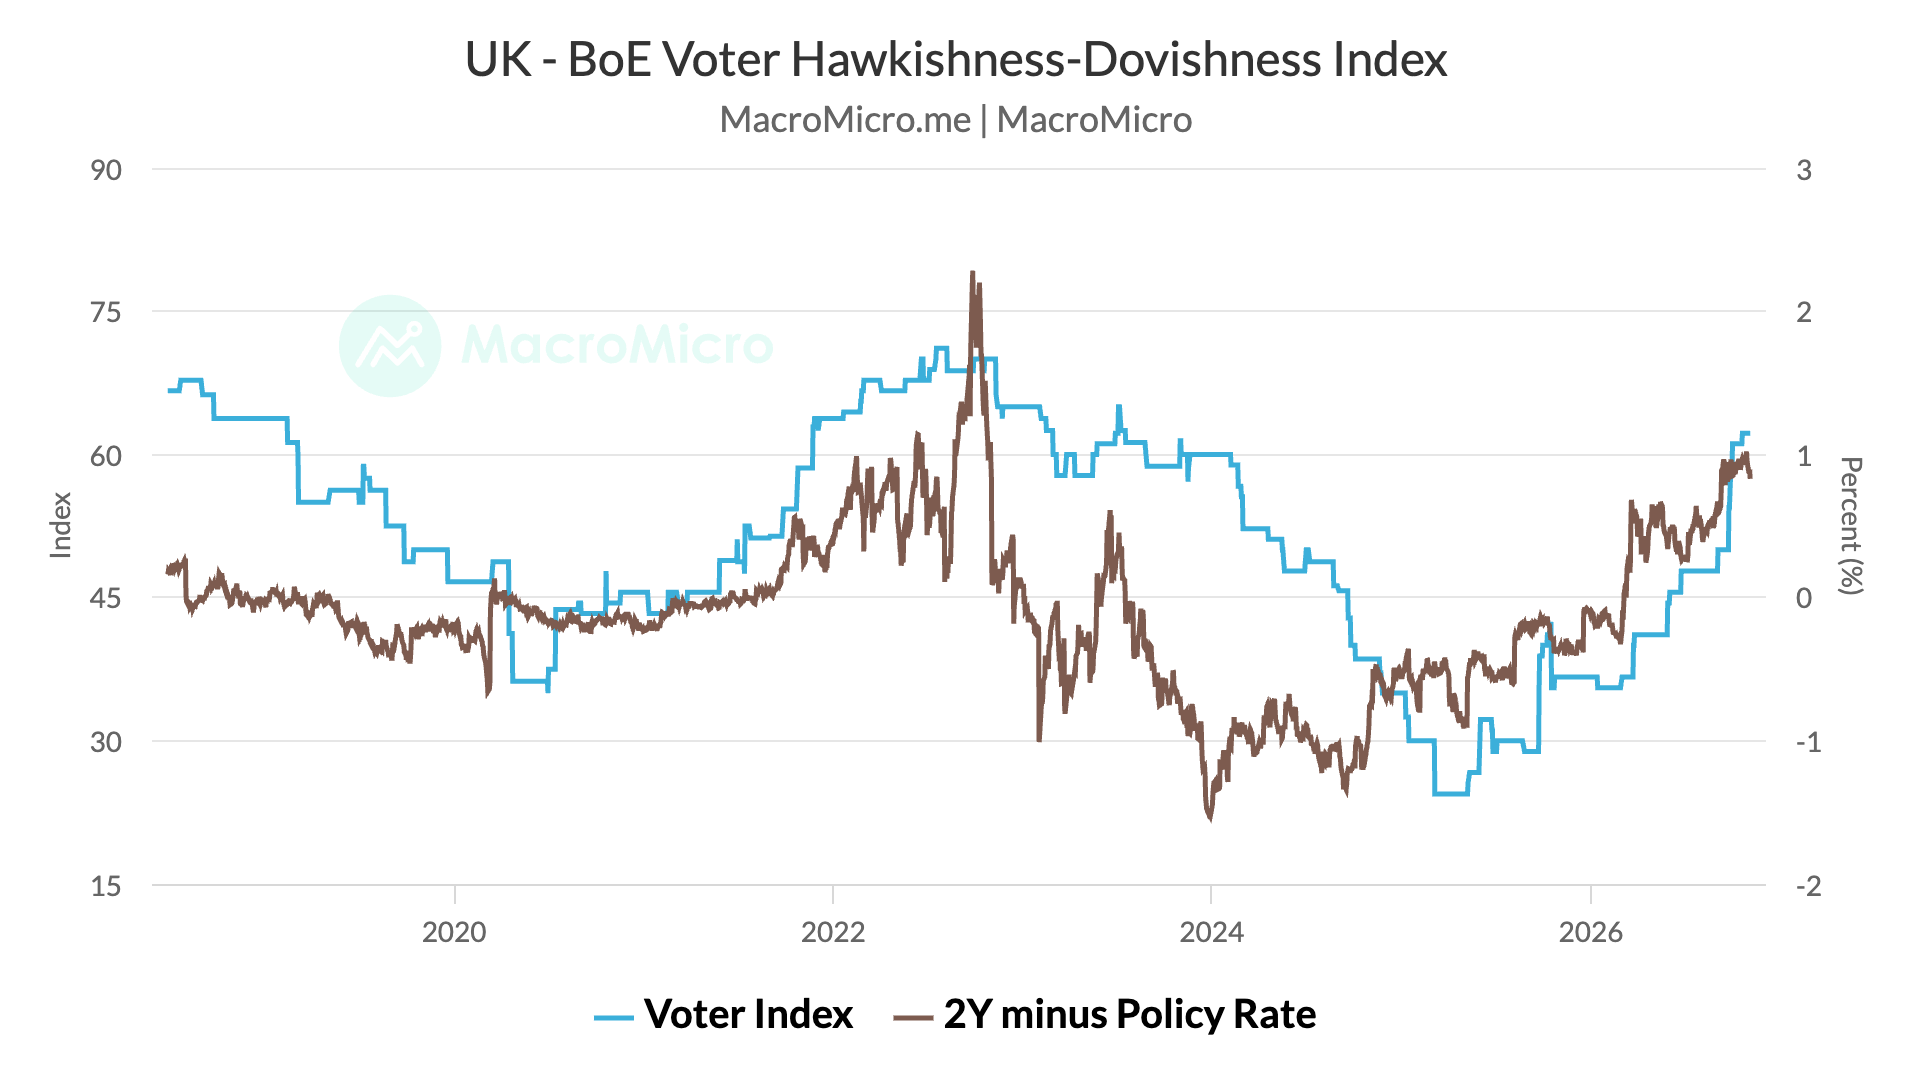
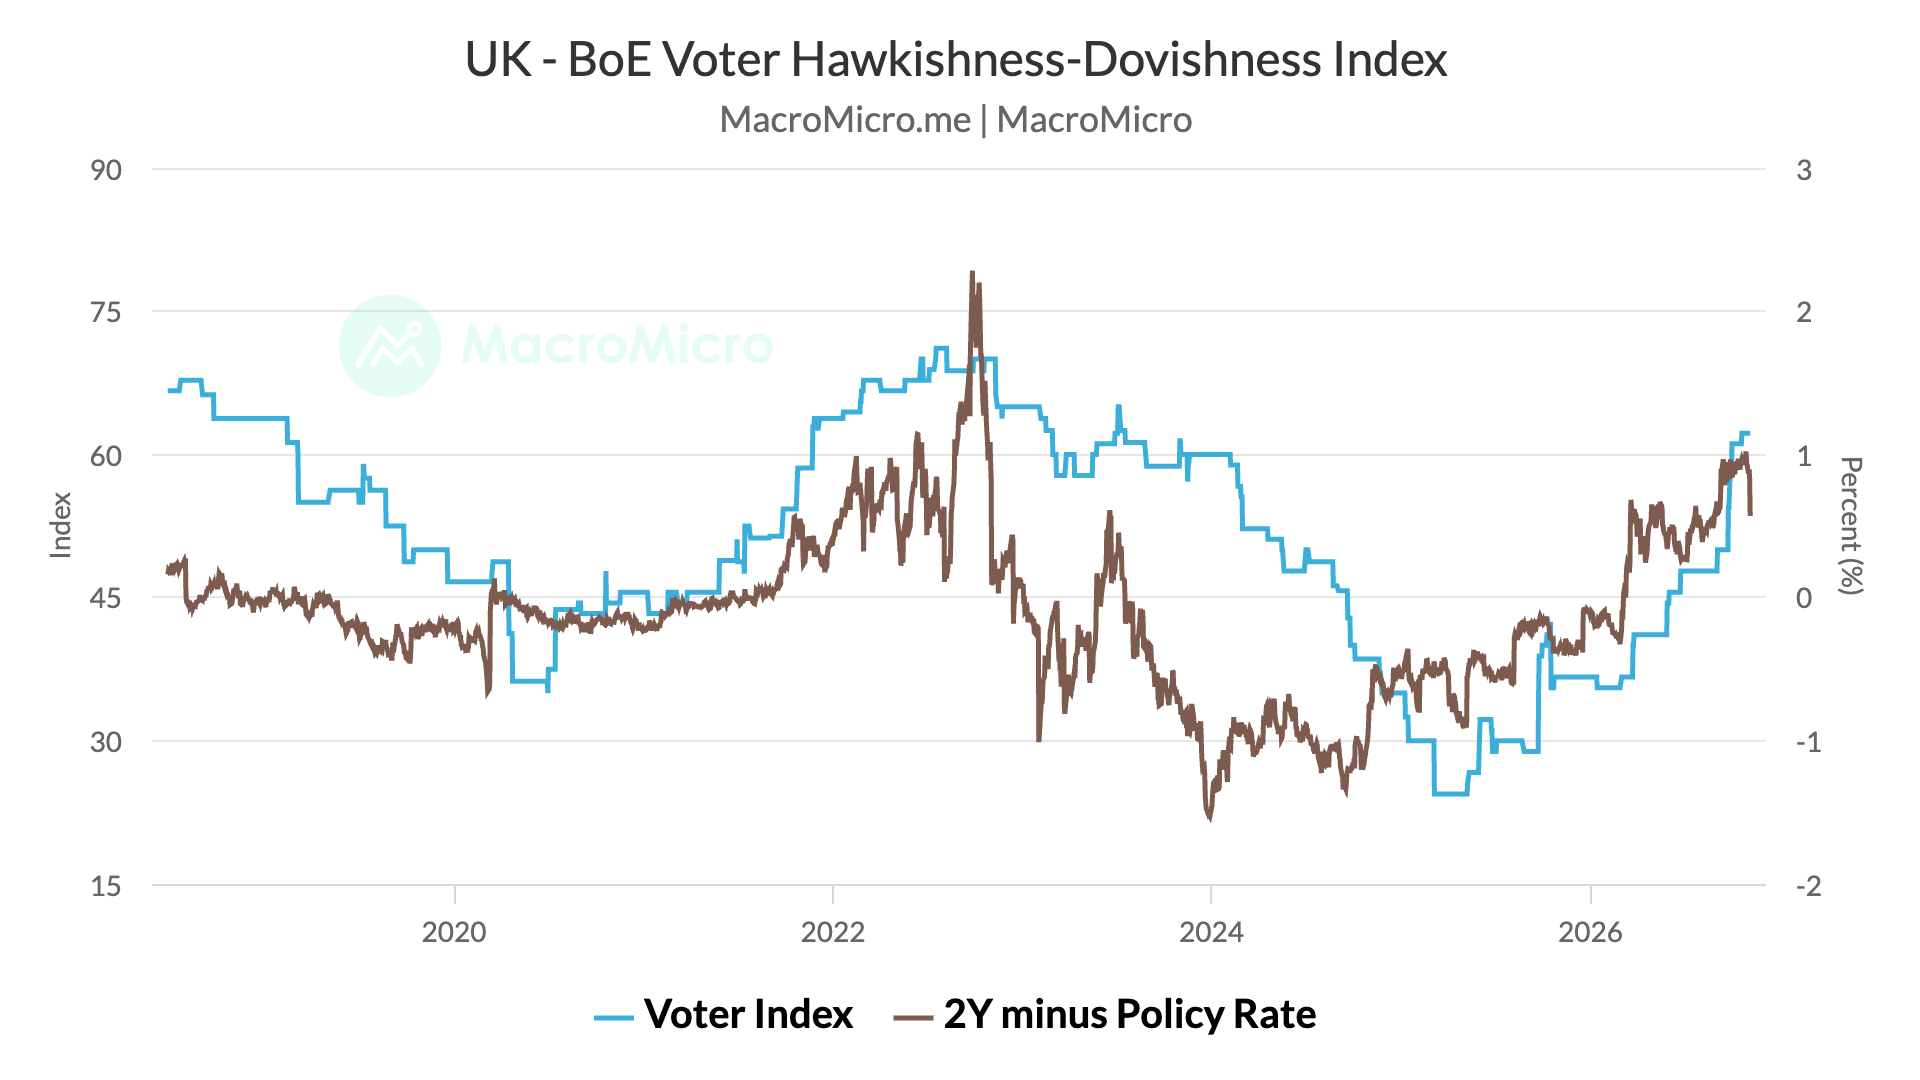
presentation mats

diff --git a/presentation_charts/make_charts.py b/presentation_charts/make_charts.py
@@ -1,0 +1,362 @@
+"""Presentation charts for the speech hawk/dove index, one folder per bank (MacroMicro house style).
+
+    fed_speech_index/.venv/bin/python presentation_charts/make_charts.py
+
+Reads only the repo's existing outputs/data; writes PNGs to presentation_charts/{fed,boe,boj}/:
+  1_scored_example.png   how one speech becomes a score (latest scored speech)
+  2_index_and_decisions.png  index with tightening/easing cycles shaded, policy rate below
+  3_member_heatmap.png   every member's score over time
+  4_stance_groups.png    how many voters lean to ease / hold / lean to tighten
+  5_disagreement.png     index with disagreement below
+  6_coverage.png         scored speeches per month
+"""
+from __future__ import annotations
+
+import ast
+import bisect
+import csv
+import datetime as dt
+import json
+import sys
+import textwrap
+from collections import defaultdict
+from pathlib import Path
+
+import matplotlib
+
+matplotlib.use("Agg")
+import matplotlib.dates as mdates  # noqa: E402
+import matplotlib.image as mpimg  # noqa: E402
+import matplotlib.pyplot as plt  # noqa: E402
+import numpy as np  # noqa: E402
+from matplotlib.colors import LinearSegmentedColormap  # noqa: E402
+from matplotlib.patches import Rectangle  # noqa: E402
+
+csv.field_size_limit(sys.maxsize)
+HERE = Path(__file__).resolve().parent
+ROOT = HERE.parent
+sys.path.insert(0, str(ROOT / "fed_speech_index"))
+from rubric import LEVELS  # noqa: E402
+
+# ---- MacroMicro style -------------------------------------------------------------------------------
+BLUE, NAVY, BROWN = "#3bafda", "#3b3f4f", "#7d5b4f"
+HAWK, DOVE, HOLD = "#e9573f", "#3bafda", "#c9c9c9"     # tighten / ease / hold
+TEXT, MUTED, GRID, BASE = "#333333", "#666666", "#e6e6e6", "#d8d8d8"
+TIGHT_BAND, EASE_BAND = "#fbe3de", "#dff1f8"
+DIVERGING = LinearSegmentedColormap.from_list("dove_hawk", ["#1f7fa8", DOVE, "#ececec", HAWK, "#b8341f"])
+W, H, DPI = 9.6, 5.4, 200                                # 960x540 at 2x
+plt.rcParams.update({
+    "font.family": ["Lato", "Hiragino Sans", "Arial Unicode MS", "DejaVu Sans"],
+    "font.size": 10, "text.color": TEXT, "axes.labelcolor": MUTED, "xtick.color": MUTED, "ytick.color": MUTED,
+    "axes.edgecolor": BASE, "axes.linewidth": 0.8, "xtick.major.size": 5, "ytick.major.size": 0,
+    "axes.spines.top": False, "axes.spines.right": False, "axes.spines.left": False,
+})
+WATERMARK = mpimg.imread(HERE / "assets" / "mm-watermark.png")
+
+BANKS = {
+    "fed": dict(folder="fed_speech_index", country="US", body="FOMC", start="2008-01-01",
+                rate_label="Fed funds target, midpoint (%)", members="FOMC voters"),
+    "boe": dict(folder="boe", country="UK", body="BoE MPC", start="2018-06-28",
+                rate_label="Bank Rate (%)", members="MPC members"),
+    "boj": dict(folder="boj", country="Japan", body="BoJ Policy Board", start="2018-03-01",
+                rate_label="BoJ short-term policy rate (%)", members="Policy Board members"),
+}
+# BoJ has no rate file in the repo; same table the yield_comparison CSVs use.
+BOJ_RATE = [("2016-01-29", -0.10), ("2024-03-19", 0.10), ("2024-07-31", 0.25), ("2025-01-24", 0.50),
+            ("2025-12-19", 0.75), ("2026-06-16", 1.00), ("2026-09-18", 1.25)]
+
+
+# ---- data -------------------------------------------------------------------------------------------
+def d(s: str) -> dt.date:
+    return dt.date.fromisoformat(s[:10])
+
+
+def series(path: Path, col: str = "index") -> tuple[list[dt.date], np.ndarray]:
+    rows = list(csv.DictReader(open(path, encoding="utf-8")))
+    return [d(r["date"]) for r in rows], np.array([float(r[col]) for r in rows])
+
+
+def policy_rate(bank: str) -> list[tuple[dt.date, float]]:
+    if bank == "fed":
+        rows = csv.DictReader(open(ROOT / "fed_speech_index/data/fed_funds.csv"))
+        mid = lambda s: float(s) if s.startswith("-") else float(np.mean([float(x) for x in s.split("-")]))  # noqa: E731
+        return [(d(r["date"]), mid(r["level"])) for r in rows]
+    if bank == "boe":
+        return [(d(r["date"]), float(r["level"])) for r in csv.DictReader(open(ROOT / "boe/data/policy_rates.csv"))]
+    return [(d(a), b) for a, b in BOJ_RATE]
+
+
+def rate_at(rates, day):
+    i = bisect.bisect_right([r[0] for r in rates], day) - 1
+    return rates[i][1] if i >= 0 else np.nan
+
+
+def cycles(rates, start):
+    """Consecutive same-direction moves -> (first, last, +1/-1)."""
+    moves = [(rates[i][0], np.sign(rates[i][1] - rates[i - 1][1])) for i in range(1, len(rates))]
+    moves = [(day, s) for day, s in moves if s != 0 and day >= start]
+    out = []
+    for day, s in moves:
+        if out and out[-1][2] == s:
+            out[-1][1] = day
+        else:
+            out.append([day, day, s])
+    return out
+
+
+def scores(folder: str) -> dict:
+    out = {}
+    for line in open(ROOT / folder / "data/scores.jsonl", encoding="utf-8"):
+        r = json.loads(line)
+        out[r["id"]] = r
+    return out
+
+
+def speeches(folder: str) -> dict:
+    out = {}
+    for f in sorted((ROOT / folder / "data/speeches").glob("*.csv")):
+        for r in csv.DictReader(open(f, encoding="utf-8")):
+            r.pop("text", None)
+            out[r["id"]] = r
+    return out
+
+
+# ---- chart scaffolding ------------------------------------------------------------------------------
+def figure(title: str, rows=1, ratios=None, sharex=True, mark=(0.13, 0.62)):
+    fig, axes = plt.subplots(rows, 1, figsize=(W, H), dpi=DPI, sharex=sharex,
+                             gridspec_kw={"height_ratios": ratios} if ratios else None)
+    fig.patch.set_facecolor("white")
+    fig.text(0.5, 0.955, title, ha="center", va="center", fontsize=17, color=TEXT)
+    fig.text(0.5, 0.905, "MacroMicro.me | MacroMicro", ha="center", va="center", fontsize=12, color=MUTED)
+    fig.figimage(WATERMARK, xo=int(mark[0] * W * DPI), yo=int(mark[1] * H * DPI), zorder=0.5, alpha=1)
+    axes = np.atleast_1d(axes)
+    for ax in axes:
+        ax.set_facecolor("none")
+        ax.grid(axis="y", color=GRID, lw=0.8)
+        ax.set_axisbelow(True)
+        ax.tick_params(labelsize=9)
+    return fig, axes
+
+
+def years(ax, step=None):
+    ax.xaxis.set_major_locator(mdates.YearLocator(step or 1))
+    ax.xaxis.set_major_formatter(mdates.DateFormatter("%Y"))
+
+
+def legend(fig, handles, labels, y=0.03):
+    fig.legend(handles, labels, loc="lower center", bbox_to_anchor=(0.5, y), ncol=len(labels), frameon=False,
+               prop={"weight": "bold", "size": 11}, handlelength=1.4, columnspacing=1.6)
+
+
+def save(fig, path: Path, bottom=0.14):
+    fig.subplots_adjust(left=0.08, right=0.97, top=0.85, bottom=bottom, hspace=0.18)
+    fig.savefig(path, dpi=DPI, facecolor="white")
+    plt.close(fig)
+
+
+def shade_cycles(ax, cyc):
+    for a, b, s in cyc:
+        b = max(b, a + dt.timedelta(days=25))
+        ax.axvspan(a, b, color=TIGHT_BAND if s > 0 else EASE_BAND, lw=0, zorder=0)
+
+
+# ---- charts -----------------------------------------------------------------------------------------
+def scored_example(bank, cfg, out):
+    sc, sp = scores(cfg["folder"]), speeches(cfg["folder"])
+    good = [(sp[i]["date"], i) for i, r in sc.items() if i in sp and r.get("policy_relevant")
+            and r.get("level") not in (None, 5) and all(r.get("evidence_verified") or [False])]
+    _, sid = max(good)
+    r, s = sc[sid], sp[sid]
+    ev = r["evidence"]
+    ev = ast.literal_eval(ev) if isinstance(ev, str) else ev
+    level = int(r["level"])
+
+    fig, _ = figure(f"{cfg['country']} - How a Speech Becomes a Score", rows=1, mark=(0.64, 0.72))
+    fig.axes[0].remove()
+    head = f"{s['speaker']}  ·  {d(s['date']).strftime('%b %-d, %Y')}"
+    fig.text(0.06, 0.80, head, fontsize=13, weight="bold", color=TEXT)
+    fig.text(0.06, 0.755, textwrap.shorten(s.get("title") or "", 70, placeholder=" …"), fontsize=10.5, color=MUTED, style="italic")
+
+    # 11-step scale
+    ax = fig.add_axes([0.06, 0.60, 0.88, 0.09])
+    ax.set_xlim(-0.5, 10.5), ax.set_ylim(0, 1), ax.axis("off")
+    for k in range(11):
+        ax.add_patch(Rectangle((k - 0.46, 0.25), 0.92, 0.6, color=DIVERGING(k / 10), lw=0))
+        ax.text(k, 0.55, str(k * 10), ha="center", va="center", fontsize=9,
+                color="white" if k in (0, 1, 9, 10) else TEXT)
+    ax.add_patch(Rectangle((level - 0.5, 0.18), 1.0, 0.74, fill=False, ec=TEXT, lw=2))
+    ax.text(0, 0.0, "Emergency easing", ha="left", va="center", fontsize=8.5, color=MUTED)
+    ax.text(5, 0.0, "Hold", ha="center", va="center", fontsize=8.5, color=MUTED)
+    ax.text(10, 0.0, "Aggressive tightening", ha="right", va="center", fontsize=8.5, color=MUTED)
+
+    defn = LEVELS[level][1]
+    name, rest = defn.split(".", 1)
+    fig.text(0.06, 0.535, f"Level {level} = {int(LEVELS[level][0])}:  {name.title()}.", fontsize=11.5,
+             weight="bold", color=TEXT)
+    fig.text(0.06, 0.505, "\n".join(textwrap.wrap(rest.strip(), 150)[:2]), fontsize=9, color=MUTED, va="top")
+
+    fig.text(0.06, 0.40, "Evidence quoted from the speech", fontsize=10.5, weight="bold", color=TEXT)
+    y = 0.365
+    wrap = 64 if bank == "boj" else 150
+    for q in ev[:2]:
+        lines = textwrap.wrap(f"“{q.strip()}”", wrap)[:2]
+        if len(textwrap.wrap(f"“{q.strip()}”", wrap)) > 2:
+            lines[-1] = lines[-1].rstrip("”") + "…”"
+        fig.text(0.075, y, "\n".join(lines), fontsize=9.5, color=TEXT, va="top", linespacing=1.4)
+        y -= 0.05 * len(lines) + 0.015
+    fig.text(0.06, y - 0.01, "Why this level", fontsize=10.5, weight="bold", color=TEXT)
+    fig.text(0.075, y - 0.045, "\n".join(textwrap.wrap(r["rationale"], 150)[:3]), fontsize=9.5, color=TEXT,
+             va="top", linespacing=1.4)
+    fig.savefig(out / "1_scored_example.png", dpi=DPI, facecolor="white")
+    plt.close(fig)
+
+
+def index_and_decisions(bank, cfg, out, idx, rates):
+    x, y = idx
+    start = d(cfg["start"])
+    fig, (a1, a2) = figure(f"{cfg['country']} - {cfg['body']} Speech Index and Policy Decisions", 2, [3, 1.3])
+    cyc = cycles(rates, start)
+    for ax in (a1, a2):
+        shade_cycles(ax, cyc)
+    a1.axhline(50, color=MUTED, lw=0.8, ls=(0, (4, 3)), zorder=1)
+    l1, = a1.plot(x, y, color=BLUE, lw=1.6, zorder=3)
+    a1.set_ylim(0, 100), a1.set_ylabel("Index (50 = hold)")
+    rx = [start] + [r[0] for r in rates if r[0] > start] + [x[-1]]
+    ry = [rate_at(rates, t) for t in rx]
+    l2, = a2.step(rx, ry, where="post", color=NAVY, lw=1.6, zorder=3)
+    a2.set_ylabel("Rate (%)")
+    a2.set_xlim(start, x[-1])
+    years(a2, 2 if bank == "fed" else 1)
+    p1, p2 = Rectangle((0, 0), 1, 1, color=TIGHT_BAND), Rectangle((0, 0), 1, 1, color=EASE_BAND)
+    legend(fig, [l1, l2, p1, p2], ["Speech index", cfg["rate_label"], "Hiking cycle", "Cutting cycle"])
+    save(fig, out / "2_index_and_decisions.png")
+
+
+def surname(bank, name):
+    # The Fed file names pre-2010 members by surname only and later ones in full; key everyone by surname.
+    return name.split()[0].title() if bank == "boj" else name.replace(".", "").split()[-1]
+
+
+def member_heatmap(bank, cfg, out):
+    agg = defaultdict(list)
+    first = {}
+    for r in csv.DictReader(open(ROOT / cfg["folder"] / f"output/{bank}_member_scores.csv", encoding="utf-8")):
+        if not r["score"]:
+            continue
+        day = d(r["date"])
+        name = surname(bank, r["member"])
+        agg[(name, day.year, day.month)].append(float(r["score"]))
+        first.setdefault(name, day)
+    members = sorted(first, key=first.get)
+    months = sorted({(y, m) for _, y, m in agg})
+    grid = np.full((len(members), len(months)), np.nan)
+    mi = {m: i for i, m in enumerate(members)}
+    ti = {t: i for i, t in enumerate(months)}
+    for (m, y, mo), v in agg.items():
+        grid[mi[m], ti[(y, mo)]] = np.mean(v)
+    fig, (ax,) = figure(f"{cfg['country']} - {cfg['body']} Member Scores Over Time")
+    ax.grid(False)
+    t0 = mdates.date2num(dt.date(*months[0], 1))
+    t1 = mdates.date2num(dt.date(*months[-1], 28))
+    im = ax.imshow(np.ma.masked_invalid(grid), aspect="auto", cmap=DIVERGING, vmin=0, vmax=100,
+                   interpolation="nearest", extent=[t0, t1, len(members) - 0.5, -0.5], zorder=2)
+    ax.set_yticks(range(len(members)))
+    ax.set_yticklabels(members, fontsize=max(4.2, min(8.5, 300 / len(members))))
+    ax.xaxis_date()
+    years(ax, 2 if bank == "fed" else 1)
+    ax.spines["bottom"].set_visible(False)
+    cax = fig.add_axes([0.35, 0.075, 0.3, 0.025])
+    cb = fig.colorbar(im, cax=cax, orientation="horizontal", ticks=[0, 25, 50, 75, 100])
+    cb.ax.tick_params(labelsize=8, length=0)
+    cb.outline.set_visible(False)
+    fig.text(0.34, 0.087, "Dovish", ha="right", va="center", fontsize=10, weight="bold")
+    fig.text(0.66, 0.087, "Hawkish", ha="left", va="center", fontsize=10, weight="bold")
+    fig.text(0.97, 0.008, "Monthly average of each member's latest speech score; blank = not on the committee "
+             "or no score yet", ha="right", fontsize=7.5, color=MUTED)
+    fig.subplots_adjust(left=0.1, right=0.97, top=0.85, bottom=0.17)
+    fig.savefig(out / "3_member_heatmap.png", dpi=DPI, facecolor="white")
+    plt.close(fig)
+
+
+def stance_groups(bank, cfg, out):
+    rows = list(csv.DictReader(open(ROOT / f"voter_history/{bank}_stance_groups.csv")))
+    x = [d(r["date"]) for r in rows]
+    cols = ["Lean to ease", "Hold", "Lean to tighten"]
+    v = np.array([[float(r[c] or 0) for c in cols] for r in rows]).T
+    fig, (ax,) = figure(f"{cfg['country']} - Where the {cfg['members']} Stand")
+    polys = ax.stackplot(x, v, colors=[DOVE, HOLD, HAWK], step="post", lw=0, edgecolor="white")
+    ax.set_ylim(0, v.sum(0).max() * 1.05)
+    ax.set_xlim(x[0], x[-1])
+    ax.set_ylabel(f"Number of {cfg['members']}")
+    years(ax, 2 if bank == "fed" else 1)
+    legend(fig, polys, ["Lean to ease (below 50)", "Hold (50)", "Lean to tighten (above 50)"])
+    save(fig, out / "4_stance_groups.png")
+
+
+def disagreement(bank, cfg, out, idx):
+    x, y = idx
+    dx, dy = series(ROOT / cfg["folder"] / f"output/{bank}_speech_disagreement.csv")
+    fig, (a1, a2) = figure(f"{cfg['country']} - {cfg['body']} Speech Index and Disagreement", 2, [3, 1.5])
+    a1.axhline(50, color=MUTED, lw=0.8, ls=(0, (4, 3)))
+    l1, = a1.plot(x, y, color=BLUE, lw=1.6)
+    a1.set_ylim(0, 100), a1.set_ylabel("Index (50 = hold)")
+    l2, = a2.plot(dx, dy, color=BROWN, lw=1.4)
+    a2.set_ylim(0, None), a2.set_ylabel("Std. dev. (pts)")
+    a2.set_xlim(x[0], x[-1])
+    years(a2, 2 if bank == "fed" else 1)
+    legend(fig, [l1, l2], ["Speech index", "Disagreement (spread of members' scores)"])
+    save(fig, out / "5_disagreement.png")
+
+
+def coverage(bank, cfg, out):
+    sc, sp = scores(cfg["folder"]), speeches(cfg["folder"])
+    start = d(cfg["start"])
+    rel, irr = defaultdict(int), defaultdict(int)
+    for i, r in sc.items():
+        if i not in sp:
+            continue
+        day = d(sp[i]["date"])
+        if day < start:
+            continue
+        key = dt.date(day.year, day.month, 15)
+        (rel if r.get("policy_relevant") else irr)[key] += 1
+    months = []
+    t = dt.date(start.year, start.month, 15)
+    end = max(rel | irr)
+    while t <= end:
+        months.append(t)
+        t = dt.date(t.year + (t.month == 12), t.month % 12 + 1, 15)
+    a = np.array([rel[m] for m in months])
+    b = np.array([irr[m] for m in months])
+    fig, (ax,) = figure(f"{cfg['country']} - {cfg['body']} Speeches Scored per Month")
+    w = 24 if bank == "fed" else 25
+    b1 = ax.bar(months, a, width=w, color=BLUE, lw=0)
+    b2 = ax.bar(months, b, width=w, bottom=a, color=HOLD, lw=0)
+    ax.set_ylabel("Speeches")
+    ax.set_xlim(months[0] - dt.timedelta(days=20), months[-1] + dt.timedelta(days=20))
+    years(ax, 2 if bank == "fed" else 1)
+    fig.text(0.97, 0.008, f"Total {a.sum() + b.sum():,} speeches, {a.sum():,} with a policy view; "
+             f"avg {(a.sum() + b.sum()) / len(months):.1f} a month", ha="right", fontsize=8, color=MUTED)
+    legend(fig, [b1, b2], ["Has a policy view (scored)", "No policy view (excluded)"], y=0.035)
+    save(fig, out / "6_coverage.png", bottom=0.18)
+
+
+def main():
+    for bank, cfg in BANKS.items():
+        out = HERE / bank
+        out.mkdir(exist_ok=True)
+        x, y = series(ROOT / cfg["folder"] / f"output/{bank}_speech_index.csv")
+        keep = [i for i, t in enumerate(x) if t >= d(cfg["start"])]
+        idx = ([x[i] for i in keep], y[keep])
+        rates = policy_rate(bank)
+        scored_example(bank, cfg, out)
+        index_and_decisions(bank, cfg, out, idx, rates)
+        member_heatmap(bank, cfg, out)
+        stance_groups(bank, cfg, out)
+        disagreement(bank, cfg, out, idx)
+        coverage(bank, cfg, out)
+        print(bank, "->", out)
+
+
+if __name__ == "__main__":
+    main()
